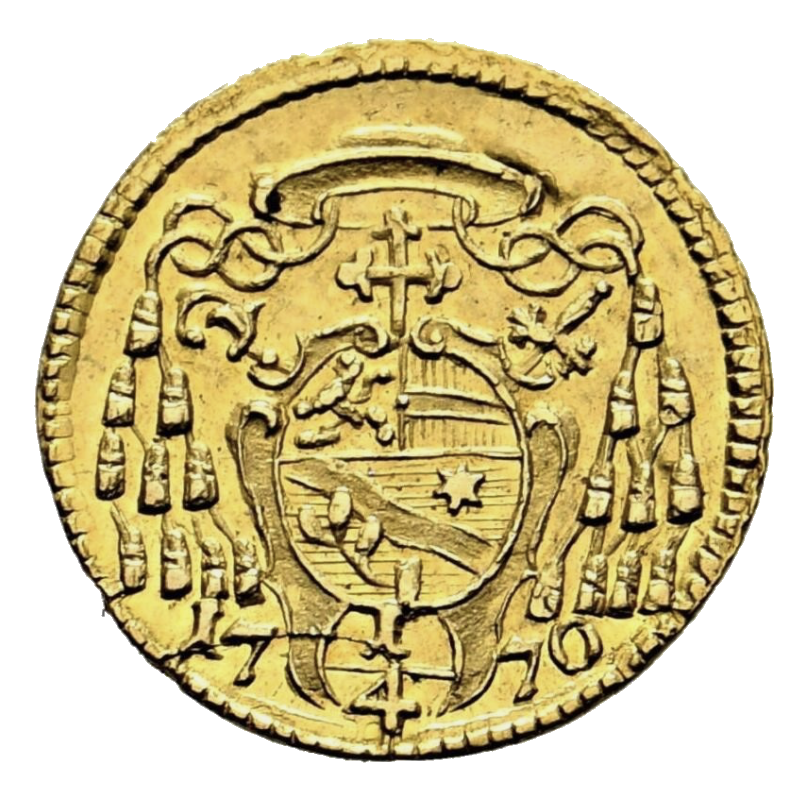
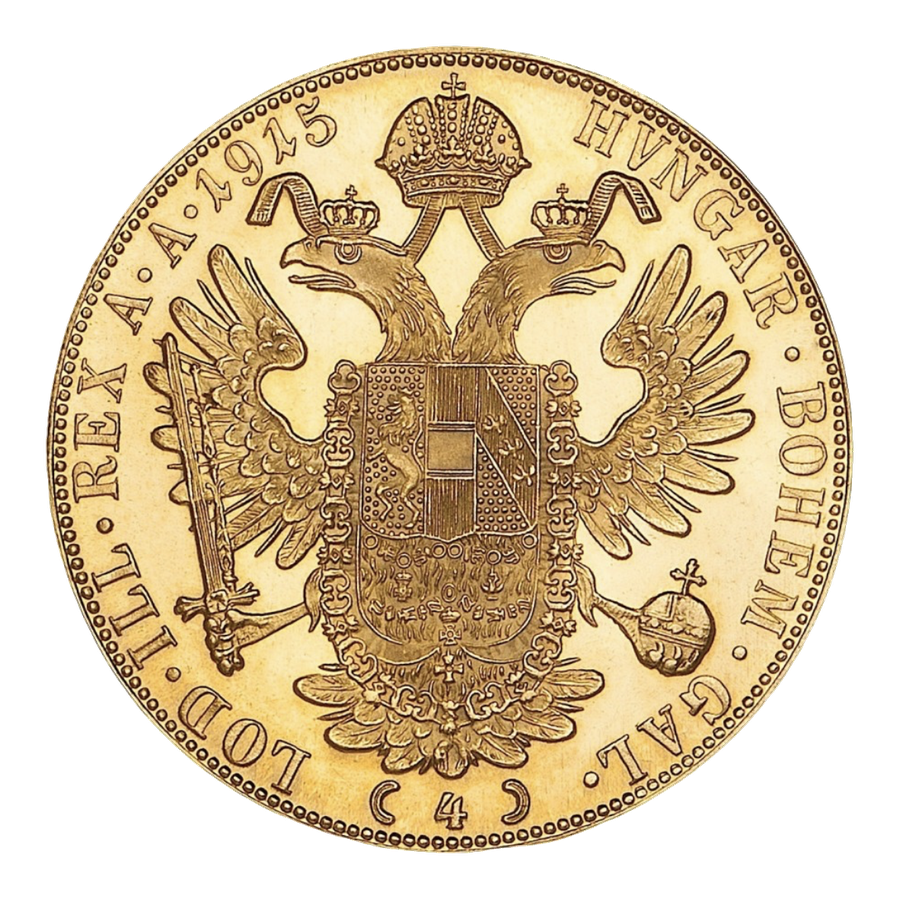
Update Austria 4 Ducats coin card

diff --git a/app.js b/app.js
@@ -1222,7 +1222,6 @@ const INVERTED_BILANCIA_DORO_IMAGE_COIN_IDS = new Set([
   "sudafrica-2-rand",
   "cile-100-pesos",
   "austria-100-corone",
-  "4-ducati-austriaci",
   "messico-20-pesos",
   "austria-1000-scellini",
   "ungheria-20-corone"
@@ -1430,22 +1429,22 @@ const BILANCIA_DORO_COIN_ADDITIONS = [
   }, "austria-100-corone"),
   withBilanciaDoroImages({
     id: "4-ducati-austriaci",
-    name: "4 Ducati austriaci 1915",
+    name: "Austria 4 Ducati d'oro (Francesco Giuseppe)",
     country: "Austria",
-    mintYears: "1915 e riconiazioni",
-    nominal: "4 Ducat",
+    mintYears: "1854-1914; riconio 1915",
+    nominal: "4 Ducati",
     metal: "Oro",
     purity: 0.986,
-    purityLabel: "986‰",
+    purityLabel: "986‰ / 98,62%",
     grossWeight: 13.96,
-    fineGold: 13.76,
-    diameter: 39.7,
+    fineGold: 13.7773,
+    diameter: 39.5,
     edge: "Liscio",
-    obverse: "Testa laureata di Francesco Giuseppe I",
-    reverse: "Scudo austriaco su aquila bicipite coronata",
-    history: "I 4 Ducati austriaci sono riconiazioni molto diffuse datate 1915, sottili e ad alto titolo. La dimensione ampia li distingue dal ducato singolo.",
-    recognitionHints: ["4 ducati", "4 ducat", "ducato austriaco", "franz joseph", "1915"],
-    visual: { front: "profile", back: "doubleeagle", frontText: "4D", backText: "986" }
+    obverse: "Busto laureato di Francesco Giuseppe I volto a destra con legenda FRANC IOS I D G AUSTRIAE IMPERATOR",
+    reverse: "Aquila bicipite coronata con stemma austriaco, data 1915 e legenda HUNGAR BOHEM GAL LOD ILL REX A A",
+    history: "Il 4 Ducati d'oro d'Austria, detto anche Cecco Beppe o Ducatone, e una moneta della Munze Osterreich dedicata a Francesco Giuseppe. La data 1915 indica quasi sempre un riconio: la produzione storica inizio nel 1854 e termino nel 1914, mentre dal 1920 venne riconiata come trade coin. Ha oro fino pari a 13,7773 g su 13,96 g totali, titolo 986/1000 e diametro 39,5 mm.",
+    recognitionHints: ["4 ducati", "4 ducat", "ducatone", "cecco beppe", "ducato austriaco", "francesco giuseppe", "franz joseph", "franc ios", "austriae imperator", "hungar bohem", "aquila bicipite", "1915"],
+    visual: { front: "profile", back: "doubleeagle", frontText: "FJ", backText: "1915" }
   }, "4-ducati-austriaci", COIN_IMAGE_SOURCE_BY_COIN["4-ducati-austriaci"]),
   withBilanciaDoroImages({
     id: "10-dollari-indiano",

diff --git a/service-worker.js b/service-worker.js
@@ -1,8 +1,8 @@
-const STATIC_CACHE = "oroactive-static-v20260629-australia-nugget-coin-4";
+const STATIC_CACHE = "oroactive-static-v20260629-4-ducati-austriaci-1";
 const STATIC_ASSETS = [
   "/index.html",
-  "/styles.css?v=20260629-australia-nugget-coin-4",
-  "/app.js?v=20260629-australia-nugget-coin-4",
+  "/styles.css?v=20260629-4-ducati-austriaci-1",
+  "/app.js?v=20260629-4-ducati-austriaci-1",
   "/manifest.json",
   "/manifest.webmanifest",
   "/oroactive-logo.png",

diff --git a/index.html b/index.html
@@ -15,7 +15,7 @@
   <link rel="apple-touch-icon" href="icons/apple-touch-icon-180.png">
   <link rel="icon" type="image/png" sizes="192x192" href="icons/icon-192.png">
   <link rel="icon" type="image/png" sizes="512x512" href="icons/icon-512.png">
-  <link rel="stylesheet" href="styles.css?v=20260629-australia-nugget-coin-4">
+  <link rel="stylesheet" href="styles.css?v=20260629-4-ducati-austriaci-1">
   <script src="frontend-config.js?v=20260524-login-1"></script>
 </head>
 <body>
@@ -1906,6 +1906,6 @@
   </div>
   <datalist id="citySuggestions"></datalist>
   <datalist id="provinceSuggestions"></datalist>
-  <script src="app.js?v=20260629-australia-nugget-coin-4"></script>
+  <script src="app.js?v=20260629-4-ducati-austriaci-1"></script>
 </body>
 </html>

diff --git a/server.js b/server.js
@@ -6495,7 +6495,7 @@ GOLD_COIN_AI_CATALOG.push(
   { id: "cile-100-pesos", name: "Cile 100 Pesos", country: "Cile", purity: "900 per mille", obverse: "testa laureata della Repubblica", reverse: "stemma con stella, condor e cervo", hints: ["100 pesos", "cile", "chile", "condor"] },
   { id: "20-dollari-liberty", name: "20 Dollars Liberty Head", country: "Stati Uniti", purity: "900 per mille", obverse: "Liberty Head", reverse: "aquila con scudo", hints: ["20 dollars liberty", "liberty head", "double eagle"] },
   { id: "austria-100-corone", name: "Austria 100 Corone", country: "Austria", purity: "900 per mille", obverse: "Francesco Giuseppe", reverse: "aquila bicipite e 100 Corone", hints: ["100 corone", "100 corona", "austria", "1915"] },
-  { id: "4-ducati-austriaci", name: "4 Ducati austriaci 1915", country: "Austria", purity: "986 per mille", obverse: "Francesco Giuseppe", reverse: "aquila bicipite", hints: ["4 ducati", "4 ducat", "1915", "franz joseph"] },
+  { id: "4-ducati-austriaci", name: "Austria 4 Ducati d'oro (Francesco Giuseppe)", country: "Austria", purity: "986 per mille", obverse: "Francesco Giuseppe volto a destra, FRANC IOS I D G AUSTRIAE IMPERATOR", reverse: "aquila bicipite coronata, HUNGAR BOHEM GAL LOD ILL REX A A 1915", hints: ["4 ducati", "4 ducat", "ducatone", "cecco beppe", "1915", "francesco giuseppe", "franz joseph", "austriae imperator", "hungar bohem", "aquila bicipite"] },
   { id: "10-dollari-indiano", name: "10 Dollars Indian Head", country: "Stati Uniti", purity: "900 per mille", obverse: "Liberty con copricapo indiano", reverse: "aquila americana", hints: ["10 dollars indian", "indian head", "ten dollars"] },
   { id: "10-dollari-liberty", name: "10 Dollars Liberty Head", country: "Stati Uniti", purity: "900 per mille", obverse: "Liberty Head", reverse: "aquila con scudo", hints: ["10 dollars liberty", "liberty head", "ten dollars"] },
   { id: "messico-20-pesos", name: "Messico 20 Pesos", country: "Messico", purity: "900 per mille", obverse: "calendario azteco", reverse: "aquila e serpente", hints: ["20 pesos", "mexico", "messico", "calendario azteco"] },